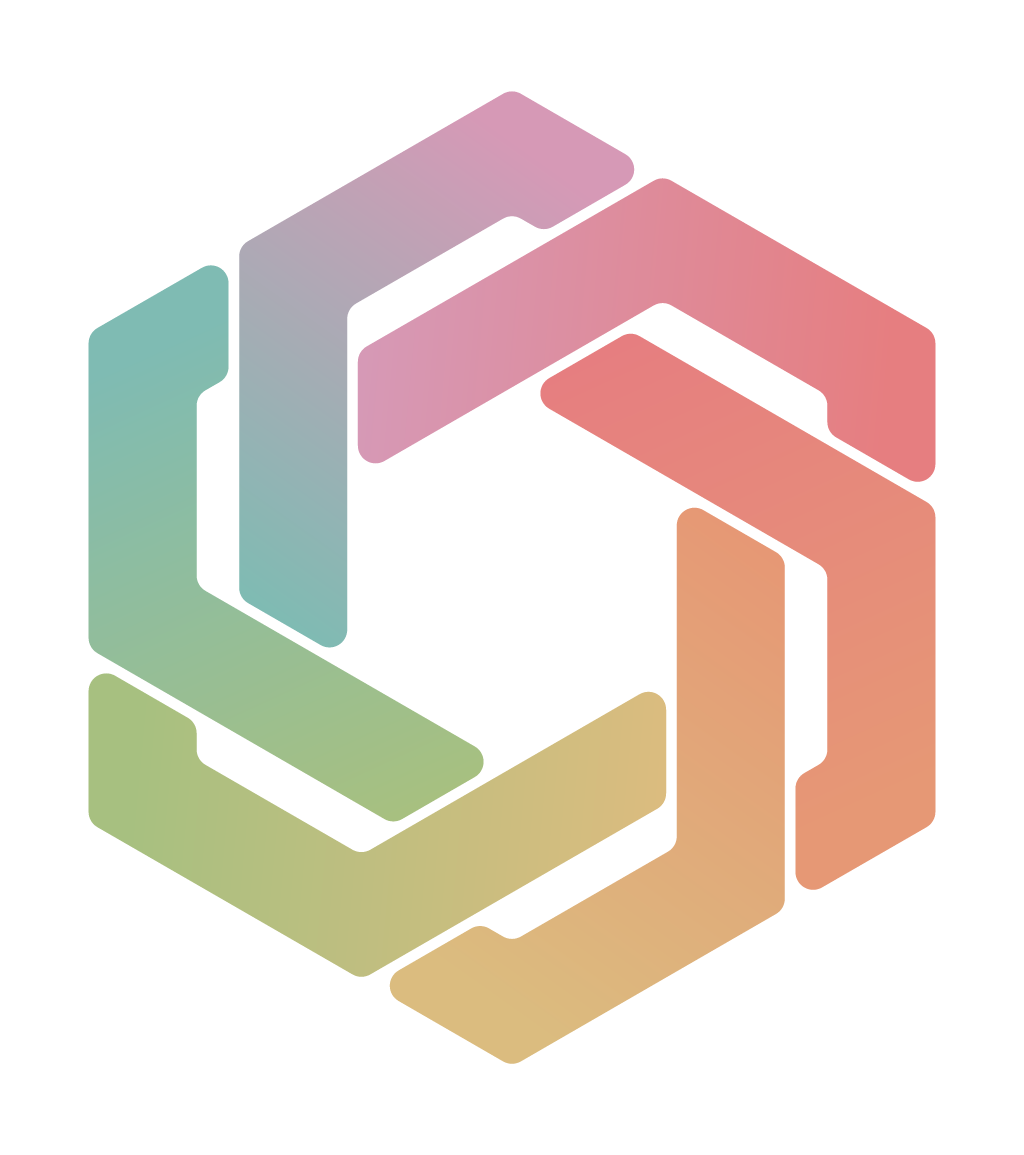
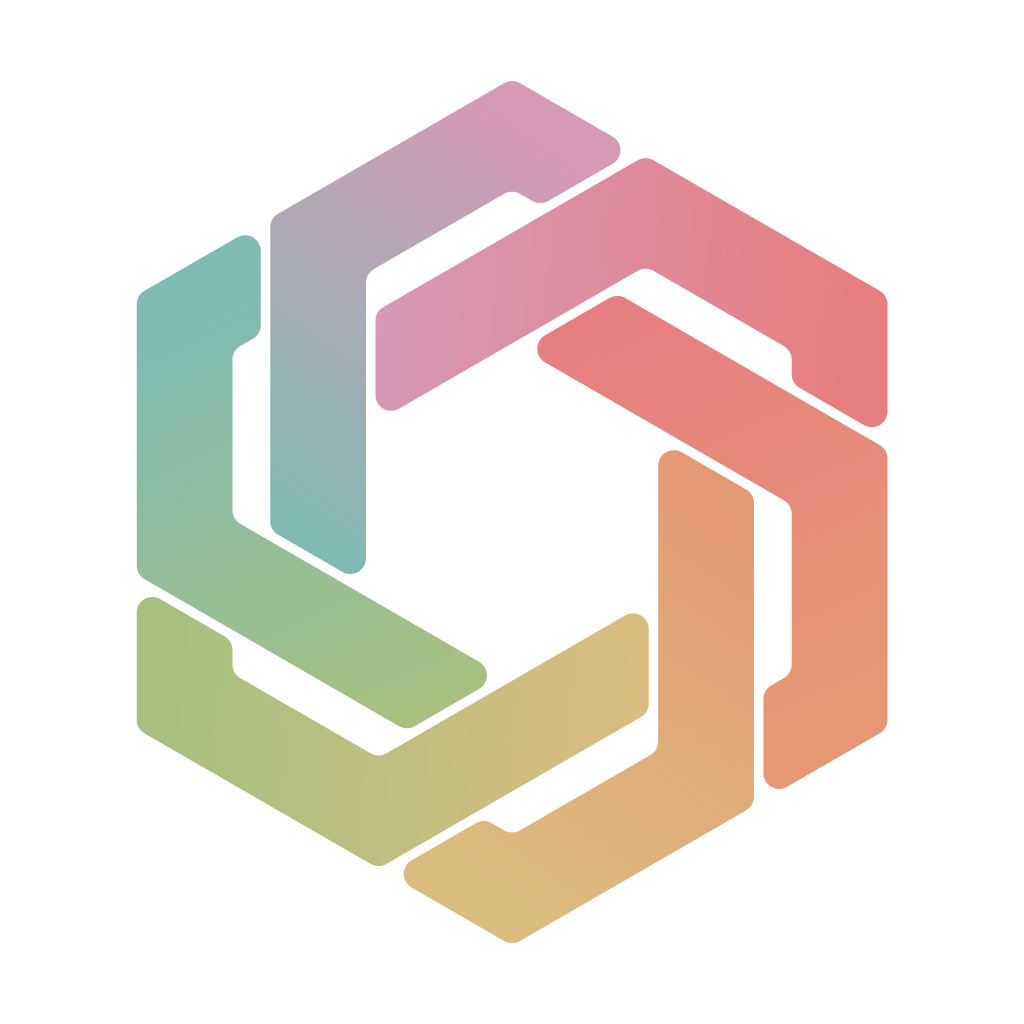
Make the canvas square; stage padding slider & PNG size presets
- hexknot.ts: the viewBox is now a square sized by the hexagon's
  circumcircle, so padding is uniform, exports are icon-shaped, and the
  canvas is stable under rotation (breathing already needed this);
  regenerates hexknot.svg and square 1024x1024 README PNGs
- Playground: checkerboard now marks the exact canvas (was: the whole
  stage), making padding WYSIWYG; a slider next to the padding preset
  sets arbitrary values; PNG size gains a preset select (16-2048) with
  the free input showing as "custom" off-preset

diff --git a/playground/main.ts b/playground/main.ts
@@ -303,10 +303,11 @@ controls.append(el("div", { class: "palettes" }, ...paletteGroups));
 
 // ----------------------------------------------------------------- actions
 
-// Padding preset: a quick pick for `padding`, applied to the live preview
-// (and thus everything copied/downloaded). The sidebar slider remains the
-// fine-grained control; a value matching no preset shows as "custom".
+// Padding: a preset pick plus a free slider, applied to the live preview
+// (and thus everything copied/downloaded). Both drive the same `padding` as
+// the sidebar row; a value matching no preset shows as "custom".
 const paddingSelect = $<HTMLSelectElement>("#padding-preset");
+const paddingSlider = $<HTMLInputElement>("#padding-slider");
 paddingSelect.append(
   ...Object.entries(PADDING_PRESETS).map(([name, value]) =>
     el("option", { value: String(value) }, name),
@@ -317,13 +318,18 @@ paddingSelect.addEventListener("input", () => {
   setSliderValue("padding", Number(paddingSelect.value));
   render();
 });
+paddingSlider.addEventListener("input", () => {
+  setSliderValue("padding", Number(paddingSlider.value));
+  render();
+});
 
-/** Point the preset select at the current state.padding. */
-function syncPaddingSelect(): void {
+/** Point the preset select & stage slider at the current state.padding. */
+function syncPaddingControls(): void {
   const value = String(state.padding);
   paddingSelect.value = Object.values(PADDING_PRESETS).some((p) => String(p) === value)
     ? value
     : "custom";
+  paddingSlider.value = value;
 }
 
 $("#reset").addEventListener("click", () => {
@@ -351,13 +357,28 @@ $("#download").addEventListener("click", () => {
   URL.revokeObjectURL(url);
 });
 
-// PNG export rasterizes at the width given by the "PNG size" input (height
+// PNG export rasterizes at the width given by the "PNG size" controls (height
 // follows the aspect ratio), independent of the mark's own `size`, so the
-// exported icon stays crisp however the preview is configured.
+// exported icon stays crisp however the preview is configured. The preset
+// select offers the usual icon sizes; the input takes any value.
 const PNG_EXPORT_SIZE = 1024;
+const PNG_SIZE_PRESETS = [16, 32, 64, 128, 256, 512, 1024, 2048];
 
+const pngSizeSelect = $<HTMLSelectElement>("#png-size-preset");
 const pngSizeInput = $<HTMLInputElement>("#png-size");
+pngSizeSelect.append(
+  ...PNG_SIZE_PRESETS.map((px) => el("option", { value: String(px) }, String(px))),
+  el("option", { value: "custom", disabled: "", hidden: "" }, "custom"),
+);
 pngSizeInput.value = String(PNG_EXPORT_SIZE);
+pngSizeSelect.value = String(PNG_EXPORT_SIZE);
+pngSizeSelect.addEventListener("input", () => {
+  pngSizeInput.value = pngSizeSelect.value;
+});
+pngSizeInput.addEventListener("input", () => {
+  const value = pngSizeInput.value;
+  pngSizeSelect.value = PNG_SIZE_PRESETS.some((px) => String(px) === value) ? value : "custom";
+});
 
 $("#download-png").addEventListener("click", async () => {
   const match = /viewBox="([-\d.]+) ([-\d.]+) ([-\d.]+) ([-\d.]+)"/.exec(currentSvg);
@@ -503,7 +524,7 @@ function render(): void {
     sliderRows.get(key)!.classList.toggle("inactive", inactive);
   }
 
-  syncPaddingSelect();
+  syncPaddingControls();
   syncFaviconAnimation();
   syncUrl();
 }

diff --git a/hexknot.ts b/hexknot.ts
@@ -618,18 +618,13 @@ export function hexKnotSvg(params: HexKnotParams = {}): string {
   }
 
   // Everything is drawn around (0,0), so the viewBox is symmetric about the
-  // origin. The bounds hug the hexagon's convex hull: its corners sit at the
-  // circumradius, at 90° + rotation and every 60° onward. `breathing` spins
-  // the mark through every angle, so its worst-case bound is the full
-  // circumradius in both directions (a corner pointing straight along the axis).
-  const hexCorners = ANGLES.map((angle) => unit(angle + 90 + p.rotation));
-  const halfW = p.breathing
-    ? circumradius + p.padding
-    : circumradius * Math.max(...hexCorners.map(([x]) => Math.abs(x))) + p.padding;
-  const halfH = p.breathing
-    ? circumradius + p.padding
-    : circumradius * Math.max(...hexCorners.map(([, y]) => Math.abs(y))) + p.padding;
-  const [x, y, w, h] = [-halfW, -halfH, 2 * halfW, 2 * halfH].map(fmt);
+  // origin. The canvas is SQUARE, sized by the hexagon's circumcircle:
+  // `padding` is the margin between that circle and the canvas edge, which
+  // keeps exports icon-shaped, the mark centered with matching margins on
+  // opposite sides, and the canvas stable under `rotation` (and under
+  // `breathing`, which spins the mark through every angle).
+  const half = circumradius + p.padding;
+  const [x, y, w, h] = [-half, -half, 2 * half, 2 * half].map(fmt);
 
   return [
     `<svg xmlns="http://www.w3.org/2000/svg" viewBox="${x} ${y} ${w} ${h}">`,

diff --git a/playground/style.css b/playground/style.css
@@ -235,6 +235,12 @@ button:disabled {
   gap: 8px;
   justify-content: flex-end;
   align-items: center;
+  flex-wrap: wrap;
+}
+
+#stage-actions input[type="range"] {
+  width: 110px;
+  accent-color: #7209b7;
 }
 
 #stage-actions label {
@@ -272,13 +278,15 @@ button:disabled {
   justify-content: center;
   border: 1px solid #e4e4e7;
   border-radius: 12px;
-  /* Checkerboard so a transparent background is visible. */
-  background: conic-gradient(#e9e9ec 0 25%, #ffffff 0 50%, #e9e9ec 0 75%, #ffffff 0) 0 0 / 24px 24px;
+  background: #fafafa;
 }
 
+/* The checkerboard sits on the svg itself, so it marks the exact canvas
+   (incl. `padding`) and makes a transparent background visible. */
 #preview svg {
   width: min(70vmin, 100%);
   height: min(70vmin, 100%);
+  background: conic-gradient(#e9e9ec 0 25%, #ffffff 0 50%, #e9e9ec 0 75%, #ffffff 0) 0 0 / 24px 24px;
 }
 
 #source-details {

diff --git a/playground/index.html b/playground/index.html
@@ -22,11 +22,16 @@
         <div id="stage-actions">
           <label id="padding-control"
             >padding
-            <select id="padding-preset"></select
-          ></label>
+            <select id="padding-preset"></select>
+            <input id="padding-slider" type="range" min="0" max="256" step="1"
+          /></label>
           <button id="copy" type="button">Copy SVG</button>
           <button id="download" type="button">Download SVG</button>
-          <label>PNG size <input id="png-size" type="number" min="16" max="4096" step="1" /></label>
+          <label
+            >PNG size
+            <select id="png-size-preset"></select>
+            <input id="png-size" type="number" min="16" max="4096" step="1"
+          /></label>
           <button id="download-png" type="button">Download PNG</button>
         </div>
         <div id="preview"></div>
